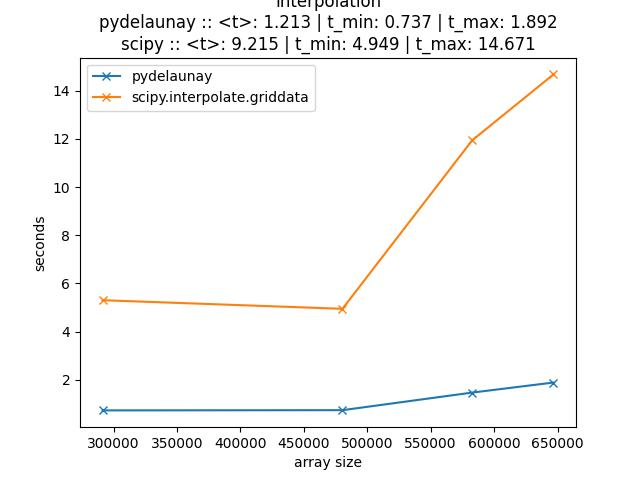
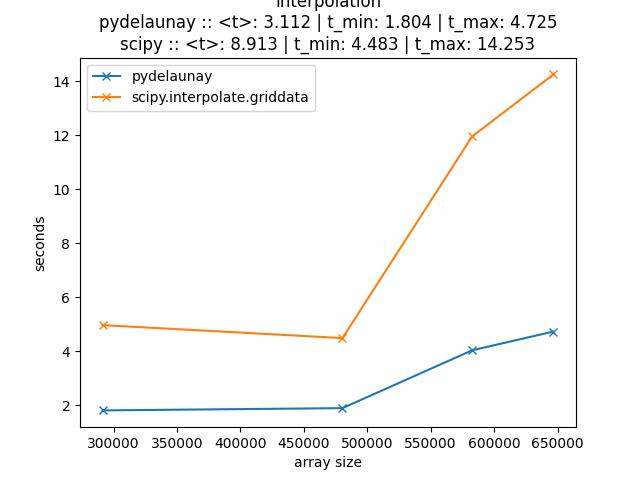
improved triangle search

diff --git a/src/triangulation.h b/src/triangulation.h
@@ -3,10 +3,16 @@
 
 #endif //PARDELAUNAY_TRIANGULATION_H
 
+uint32_t bijection(uint32_t& a, uint32_t& b) {
+    return (a + b) * (a + b + 1) / 2 + b; // Bijection: NxN -> N
+}
+
 class Triangulation {
 public:
-    parlay::sequence<parlay::sequence<uint32_t>> adj_p2t;
+//    parlay::sequence<std::pair<int32_t, int32_t>> edges;
     pbbsbench::triangles<pbbsbench::pointT> triangulation;
+    parlay::sequence<parlay::sequence<uint32_t>> adj_p2t;
+    std::unordered_map<uint32_t, parlay::sequence<uint32_t>> adj_e2t;
     py::array_t<int32_t, py::array::c_style | py::array::forcecast> vertices;
     py::array_t<int32_t, py::array::c_style | py::array::forcecast> triangles;
     Triangulation() = default;
@@ -14,9 +20,10 @@ public:
     ~Triangulation();
     bool point_in_triangle(pbbsbench::pointT& p, pbbsbench::tri& triangle);
     bool point_in_triangle(int32_t& x, int32_t& y, pbbsbench::tri& triangle);
+    int32_t check_adj_triangles(int32_t& x, int32_t& y, uint32_t& t);
     int32_t find_triangle(pbbsbench::pointT& p);
     int32_t find_triangle(int32_t& x, int32_t& y);
-    int32_t check_neighborhood(int32_t& pi, int32_t& x, int32_t& y);
+    int32_t check_neighborhood(int32_t& x, int32_t& y, int32_t& pi);
 };
 
 Triangulation::Triangulation(pbbsbench::triangles<pbbsbench::pointT>& triangulation) {
@@ -29,19 +36,37 @@ Triangulation::Triangulation(pbbsbench::triangles<pbbsbench::pointT>& triangulat
     std::vector<int64_t> triangles_strides = {sizeof(int32_t) * 3, sizeof(int32_t)};
     std::vector<int32_t> flatten_points(2 * n);
     std::vector<int32_t> flatten_triangles(3 * m);
+
     parlay::parallel_for(0, n, [&](uint32_t i) {
         flatten_points[2 * i] = triangulation.P[i].x;
         flatten_points[2 * i + 1] = triangulation.P[i].y;
         });
+
     parlay::parallel_for(0, m, [&](uint32_t i) {
         for (uint32_t j = 0; j < 3; ++j)
             flatten_triangles[3 * i + j] = triangulation.T[i][j];
     });
 
     this -> adj_p2t = parlay::sequence<parlay::sequence<uint32_t>>(n);
+
     for (uint32_t i = 0; i < m; ++i) {
-        for (uint32_t j = 0; j < 3; ++j)
-            this -> adj_p2t[triangulation.T[i][j]].push_back(i);
+        for (int32_t j = 0; j < 3; ++j) {
+            uint32_t a = triangulation.T[i][j];
+            uint32_t b = triangulation.T[i][(j + 1) % 3];
+
+            adj_p2t[a].push_back(i);
+
+            if (a > b)
+                std::swap(a, b);
+            uint32_t e = bijection(a, b);
+            if (adj_e2t.find(e) == adj_e2t.end()) {
+                parlay::sequence<uint32_t> s(1, i);
+                adj_e2t.insert({e, s});
+            }
+            else {
+                adj_e2t[e].push_back(i);
+            }
+        }
     }
 
 
@@ -101,11 +126,26 @@ int32_t Triangulation::find_triangle(int32_t& x, int32_t& y) {
     return -1;
 }
 
-int32_t Triangulation::check_neighborhood(int32_t &pi, int32_t &x, int32_t &y) {
-    for (auto& i : this -> adj_p2t[pi]) {
-        if (this ->point_in_triangle(x, y, this -> triangulation.T[i])) {
-            return i;
+int32_t Triangulation::check_adj_triangles(int32_t& x, int32_t& y, uint32_t& t) {
+    for (uint32_t i = 0; i < 3; ++i) {
+        uint32_t a = triangulation.T[t][i];
+        uint32_t b = triangulation.T[t][(i + 1) % 3];
+        if (a > b)
+            std::swap(a, b);
+
+        for (auto& tt : adj_e2t[bijection(a, b)]) {
+            if (tt != t and point_in_triangle(x, y, triangulation.T[tt]))
+                return tt;
         }
+    }
+    return -1;
+}
+
+int32_t Triangulation::check_neighborhood(int32_t& x, int32_t& y, int32_t& pi) {
+    for (auto& i : this -> adj_p2t[pi]) {   // A bit of overhead :retard:
+        auto j = check_adj_triangles(x, y, i);
+        if (j != -1)
+            return j;
     }
     return -1;
 }

diff --git a/src/interpolator.h b/src/interpolator.h
@@ -16,7 +16,7 @@ public:
     BiLinearInterpolator() = default;
     BiLinearInterpolator(const py::array_t<int32_t, py::array::c_style | py::array::forcecast>& points,
                          const py::array_t<float, py::array::c_style | py::array::forcecast>& values);
-    float bilinear_barycentric_interpolation(int32_t& x, int32_t& y, int32_t& t);
+    double bilinear_barycentric_interpolation(int32_t& x, int32_t& y, int32_t& t);
     py::array_t<float, py::array::c_style | py::array::forcecast> call(const py::array_t<int32_t, py::array::c_style | py::array::forcecast>& points,
                                                                        const py::array_t<int32_t, py::array::c_style | py::array::forcecast>& neighbors,
                                                                        float fill_value = 0.0);
@@ -55,13 +55,13 @@ BiLinearInterpolator::BiLinearInterpolator(const py::array_t<int32_t, py::array:
 
 }
 
-float BiLinearInterpolator::bilinear_barycentric_interpolation(int32_t &x, int32_t &y, int32_t& t) {
+double BiLinearInterpolator::bilinear_barycentric_interpolation(int32_t &x, int32_t &y, int32_t& t) {
 
     // https://en.wikipedia.org/wiki/Barycentric_coordinate_system#Vertex_approach
 
-    int32_t i = this -> triangulation.triangulation.T[t][0];
-    int32_t j = this -> triangulation.triangulation.T[t][1];
-    int32_t k = this -> triangulation.triangulation.T[t][2];
+    int32_t i = triangulation.triangulation.T[t][0];
+    int32_t j = triangulation.triangulation.T[t][1];
+    int32_t k = triangulation.triangulation.T[t][2];
 
     int32_t x1 = triangulation.triangulation.P[i].x;
     int32_t y1 = triangulation.triangulation.P[i].y;
@@ -82,15 +82,16 @@ float BiLinearInterpolator::bilinear_barycentric_interpolation(int32_t &x, int32
     int32_t dxy31 = x3*y1 - x1*y3;
     int32_t dxy12 = x1*y2 - x2*y1;
 
-    float lambda_1 = float(dxy23 + x * dy23 + y * dx32);
-    float lambda_2 = float(dxy31 + x * dy31 + y * dx13);
-    float lambda_3 = float(dxy12 + x * dy12 + y * dx21);
+    auto lambda_1 = double(dxy23 + x * dy23 + y * dx32);
+    auto lambda_2 = double(dxy31 + x * dy31 + y * dx13);
+    auto lambda_3 = double(dxy12 + x * dy12 + y * dx21);
 
-    float f1 = this -> values.at(i);
-    float f2 = this -> values.at(j);
-    float f3 = this -> values.at(k);
+    double f1 = this -> values.at(i);
+    double f2 = this -> values.at(j);
+    double f3 = this -> values.at(k);
 
-    return (lambda_1 * f1 + lambda_2 * f2 + lambda_3 * f3) / float(dxy12 + dxy31 + dxy23);
+    auto interpolated = (lambda_1 * f1 + lambda_2 * f2 + lambda_3 * f3) / double(dxy12 + dxy31 + dxy23);
+    return interpolated;
 }
 
 py::array_t<float, py::array::c_style | py::array::forcecast> BiLinearInterpolator::call(const py::array_t<int32_t, py::array::c_style | py::array::forcecast>& points,
@@ -103,10 +104,9 @@ py::array_t<float, py::array::c_style | py::array::forcecast> BiLinearInterpolat
         int32_t x = points.at(i, 0);
         int32_t y = points.at(i, 1);
         int32_t neighbor = neighbors.at(i);
-        auto tri = this -> triangulation.triangulation.T[neighbor];
-        bool t = this -> triangulation.point_in_triangle(x, y, tri);
-        if (t)
-            interpolated[i] = bilinear_barycentric_interpolation(x, y, neighbor);
+        int32_t t = this -> triangulation.check_neighborhood(x, y, neighbor);
+        if (t != -1)
+            interpolated[i] = bilinear_barycentric_interpolation(x, y, t);
     });
 
     std::vector<int64_t> shape = {n};

diff --git a/interp/interpolator.py b/interp/interpolator.py
@@ -6,7 +6,7 @@ from scipy.spatial import KDTree
 class Linear2DInterpolator(BiLinearInterpolator):
     def __init__(self, points: np.ndarray[np.int32], values: np.ndarray[np.float32]):
         super().__init__(points, values)
-        self.kdtree = KDTree(self.barycenters)
+        self.kdtree = KDTree(points)
 
     def __call__(self, points: np.ndarray[np.int32], fill_value: float = 0.0, workers: int = -1) -> np.ndarray[np.float32]:
         _, neighbors = self.kdtree.query(points, 1, workers=workers)
